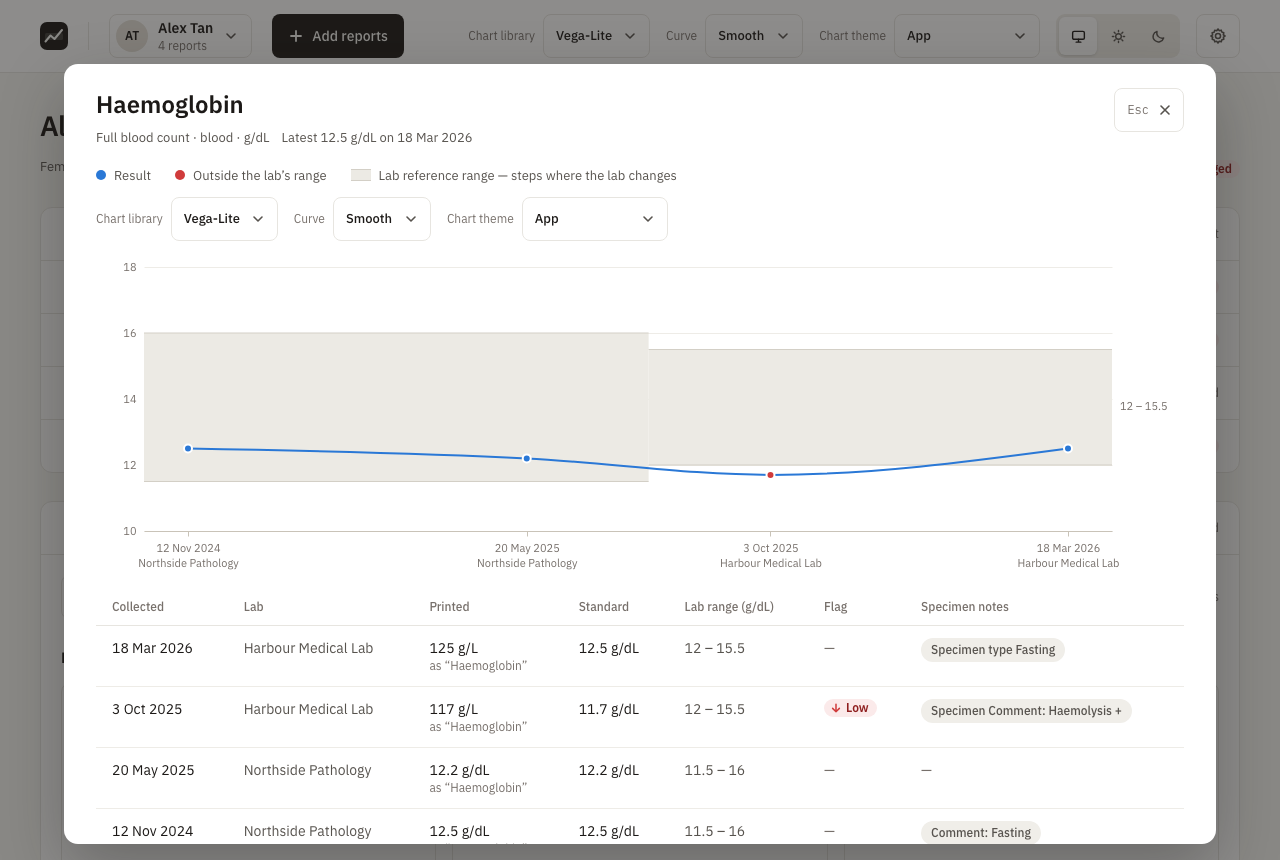
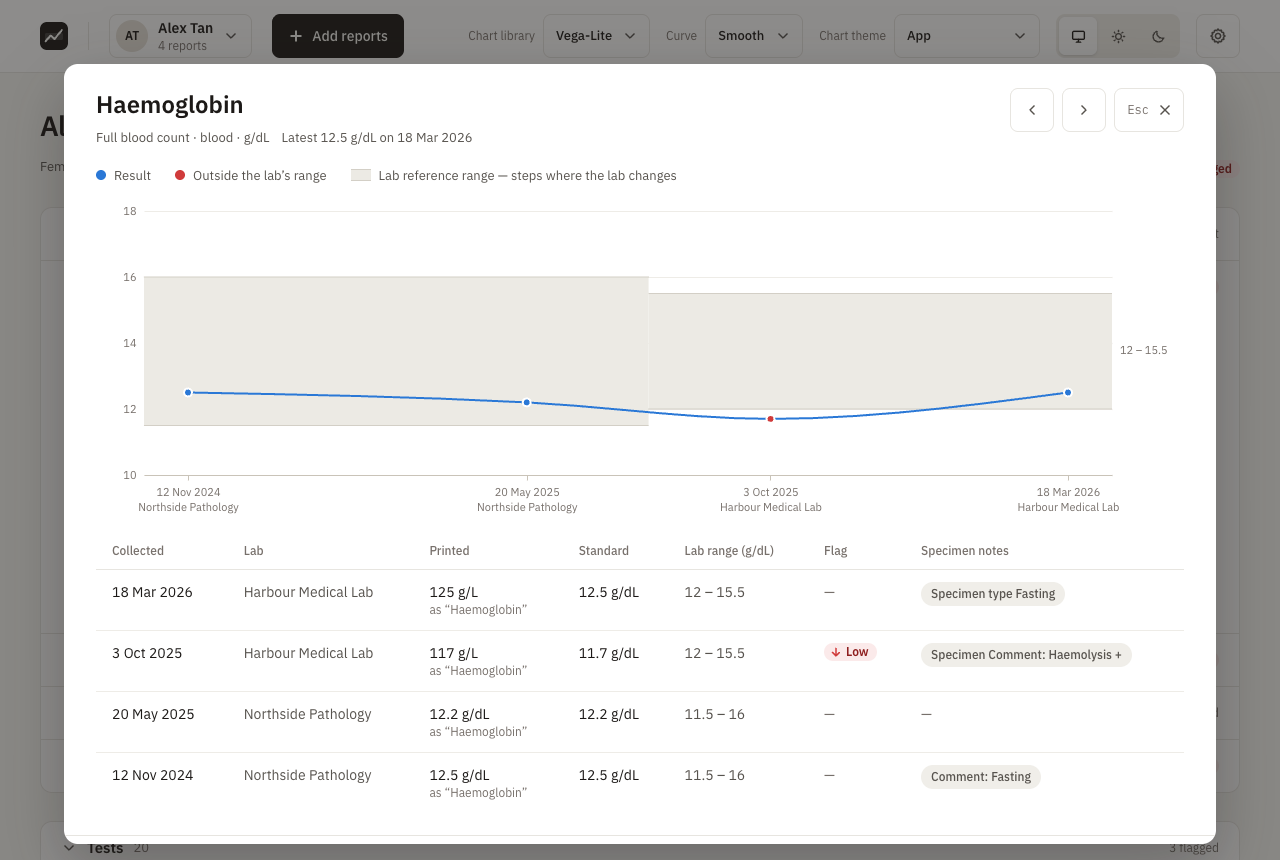
feat: add left/right controls when test dialog with large chart is opened (#1)

diff --git a/app/src/components/TestDetail.vue b/app/src/components/TestDetail.vue
@@ -1,17 +1,24 @@
 <script setup lang="ts">
-import { computed, onMounted, ref, useId } from "vue";
+import { computed, nextTick, onMounted, ref, useId, watch } from "vue";
 import { FLAGS } from "../lib/flags.ts";
 import type { Series } from "../lib/series.ts";
 import type { TestDetail } from "../lib/test-detail.ts";
-import ChartOptions from "./ChartOptions.vue";
 import FlagPill from "./FlagPill.vue";
 import Icon from "./Icon.vue";
 import TestChart from "./TestChart.vue";
 
-const props = defineProps<{ series: Series; detail: TestDetail }>();
-const emit = defineEmits<{ close: [] }>();
+const props = defineProps<{
+  series: Series;
+  detail: TestDetail;
+  /** Where this test sits among the tests shown; null when it isn't among them. */
+  position: { index: number; total: number } | null;
+}>();
+const emit = defineEmits<{ close: []; step: [by: -1 | 1] }>();
 
 const dialog = ref<HTMLDialogElement | null>(null);
+const body = ref<HTMLElement | null>(null);
+const previous = ref<HTMLButtonElement | null>(null);
+const next = ref<HTMLButtonElement | null>(null);
 const titleId = useId();
 
 // Legend entries only for what this chart actually draws.
@@ -21,6 +28,30 @@ const hasFlags = computed(() => props.series.points.some((p) => p.flag));
 // A native modal dialog: the page behind becomes inert, focus stays inside,
 // Esc closes it, and focus returns to the card afterwards.
 onMounted(() => dialog.value?.showModal());
+
+// Stepping to another test starts it from the top, like opening it would.
+watch(() => props.series, () => body.value?.scrollTo({ top: 0 }));
+
+/** Left and right step to the previous or next test. */
+function stepOnArrow(event: KeyboardEvent) {
+  const by = event.key === "ArrowLeft" ? -1 : event.key === "ArrowRight" ? 1 : 0;
+  if (!by || !props.position) return;
+  if (event.altKey || event.ctrlKey || event.metaKey || event.shiftKey) return;
+  event.preventDefault();
+  emit("step", by);
+}
+
+/**
+ * Steps from a button. At the first or last test that button turns disabled and
+ * the browser drops its focus, which would leave the arrow keys with nowhere to
+ * go, so focus moves to the other button.
+ */
+async function stepFrom(by: -1 | 1) {
+  emit("step", by);
+  await nextTick();
+  const [from, to] = by < 0 ? [previous, next] : [next, previous];
+  if (from.value?.disabled) to.value?.focus();
+}
 
 /** Clicks that land on the dialog element itself, not its panel, are on the backdrop. */
 function closeOnBackdrop(event: MouseEvent) {
@@ -34,9 +65,10 @@ function closeOnBackdrop(event: MouseEvent) {
     :aria-labelledby="titleId"
     class="mx-auto mt-16 mb-auto max-h-[calc(100dvh-5rem)] w-[min(72rem,calc(100vw-2rem))] max-w-none overflow-hidden rounded-[14px] bg-surface text-ink shadow-[0_24px_64px_rgb(28_25_23/0.3)] backdrop:bg-[rgb(28_25_23/0.5)] dark:border dark:border-line-strong dark:backdrop:bg-black/70"
     @click="closeOnBackdrop"
+    @keydown="stepOnArrow"
     @close="emit('close')"
   >
-    <div class="flex max-h-[calc(100dvh-5rem)] flex-col overflow-y-auto">
+    <div ref="body" class="flex max-h-[calc(100dvh-5rem)] flex-col overflow-y-auto">
       <header class="flex items-start justify-between gap-6 px-8 pt-6 pb-4.5">
         <div class="flex min-w-0 flex-col gap-2">
           <div class="flex flex-wrap items-baseline gap-x-3 gap-y-1">
@@ -55,39 +87,61 @@ function closeOnBackdrop(event: MouseEvent) {
             </template>
           </div>
         </div>
-        <button
-          type="button"
-          autofocus
-          aria-label="Close"
-          class="flex h-11 shrink-0 items-center gap-2 rounded-lg border border-line pr-2.5 pl-3 text-ink-2 hover:text-ink"
-          @click="dialog?.close()"
-        >
-          <kbd class="font-mono text-xs text-muted">Esc</kbd>
-          <Icon name="close" />
-        </button>
+        <div class="flex shrink-0 items-center gap-2">
+          <!-- The same steps as left and right, for a mouse or a touch screen. -->
+          <template v-if="position && position.total > 1">
+            <button
+              type="button"
+              ref="previous"
+              aria-label="Previous test"
+              :disabled="position.index === 0"
+              class="flex size-11 items-center justify-center rounded-lg border border-line text-ink-2 hover:text-ink disabled:opacity-60 disabled:hover:text-ink-2"
+              @click="stepFrom(-1)"
+            >
+              <Icon name="chevron-left" />
+            </button>
+            <button
+              type="button"
+              ref="next"
+              aria-label="Next test"
+              :disabled="position.index === position.total - 1"
+              class="flex size-11 items-center justify-center rounded-lg border border-line text-ink-2 hover:text-ink disabled:opacity-60 disabled:hover:text-ink-2"
+              @click="stepFrom(1)"
+            >
+              <Icon name="chevron-right" />
+            </button>
+          </template>
+          <button
+            type="button"
+            autofocus
+            aria-label="Close"
+            class="flex h-11 items-center gap-2 rounded-lg border border-line pr-2.5 pl-3 text-ink-2 hover:text-ink"
+            @click="dialog?.close()"
+          >
+            <kbd class="font-mono text-xs text-muted">Esc</kbd>
+            <Icon name="close" />
+          </button>
+        </div>
       </header>
 
       <div class="flex flex-col gap-3.5 px-8 pb-5.5">
-        <div class="flex flex-wrap items-center justify-between gap-x-6 gap-y-3">
-          <ul class="flex flex-wrap gap-x-6 gap-y-2 text-[13px] text-ink-2" aria-label="Legend">
-            <li class="flex items-center gap-2">
-              <span class="size-2.5 rounded-full bg-series" aria-hidden="true"></span>Result
-            </li>
-            <li v-if="hasBounds" class="flex items-center gap-2">
-              <span class="size-2.5 rounded-full border-2 border-series bg-surface" aria-hidden="true"></span>Reported
-              as a bound, e.g. &lt; 5
-            </li>
-            <li v-if="hasFlags" class="flex items-center gap-2">
-              <span class="size-2.5 rounded-full bg-critical" aria-hidden="true"></span>Outside the lab’s range
-            </li>
-            <li v-if="series.bands.length" class="flex items-center gap-2">
-              <span class="h-3 w-5 border-y border-band-edge bg-band" aria-hidden="true"></span>Lab reference range
-              — steps where the lab changes
-            </li>
-            <li v-else-if="series.bandedRange">Banded range: see the table</li>
-          </ul>
-          <ChartOptions />
-        </div>
+        <ul class="flex flex-wrap gap-x-6 gap-y-2 text-[13px] text-ink-2" aria-label="Legend">
+          <li class="flex items-center gap-2">
+            <span class="size-2.5 rounded-full bg-series" aria-hidden="true"></span>Result
+          </li>
+          <li v-if="hasBounds" class="flex items-center gap-2">
+            <span class="size-2.5 rounded-full border-2 border-series bg-surface" aria-hidden="true"></span>Reported
+            as a bound, e.g. &lt; 5
+          </li>
+          <li v-if="hasFlags" class="flex items-center gap-2">
+            <span class="size-2.5 rounded-full bg-critical" aria-hidden="true"></span>Outside the lab’s range
+          </li>
+          <li v-if="series.bands.length" class="flex items-center gap-2">
+            <span class="h-3 w-5 border-y border-band-edge bg-band" aria-hidden="true"></span>Lab reference range
+            — steps where the lab changes
+          </li>
+          <li v-else-if="series.bandedRange">Banded range: see the table</li>
+        </ul>
 
         <TestChart v-if="series.domain" :series="series" :height="320" axes />
 
@@ -147,7 +201,12 @@ function closeOnBackdrop(event: MouseEvent) {
 
       <footer class="flex flex-wrap items-center justify-between gap-x-6 gap-y-2 border-t border-line px-8 py-3.5 text-xs text-muted">
         <span>{{ detail.notes.join(" · ") }}</span>
-        <span>Press Esc or click outside to close</span>
+        <span>
+          <template v-if="position && position.total > 1">
+            Test {{ position.index + 1 }} of {{ position.total }} · ← → for the previous or next ·
+          </template>
+          Press Esc or click outside to close
+        </span>
       </footer>
     </div>
   </dialog>

diff --git a/app/src/components/TestGrid.vue b/app/src/components/TestGrid.vue
@@ -82,6 +82,22 @@ const openSeries = computed(() =>
 const openDetail = computed(() =>
   openSeries.value ? testDetail(openSeries.value, props.dashboard.reports) : null
 );
+// Left and right in the zoomed view step through the tests as they're shown:
+// the current view, search and flagged-only decide which and in what order.
+const openOrder = computed(() =>
+  (view.value === "table"
+    ? table.value.groups.flatMap((g) => g.rows.map((r) => r.key))
+    : shown.value.flatMap((g) => g.cards.map((c) => c.key)))
+    .filter((key) => series.value.has(key))
+);
+const openIndex = computed(() =>
+  openKey.value ? openOrder.value.indexOf(openKey.value) : -1
+);
+/** Opens the previous or next test, stopping at either end. */
+function step(by: -1 | 1) {
+  const next = openOrder.value[openIndex.value + by];
+  if (openIndex.value >= 0 && next) openKey.value = next;
+}
 
 const totalCards = computed(() =>
   grid.value.groups.reduce((n, g) => n + g.cards.length, 0)
@@ -230,11 +246,13 @@ const summaryNote = computed(() =>
       @clear="clear"
     />
 
+    <!-- No key: the dialog stays open while stepping, and only its contents change. -->
     <TestDetail
       v-if="openSeries && openDetail"
-      :key="openKey ?? ''"
       :series="openSeries"
       :detail="openDetail"
+      :position="openIndex >= 0 ? { index: openIndex, total: openOrder.length } : null"
+      @step="step"
       @close="openKey = null"
     />
   </div>

diff --git a/app/src/components/ChartOptions.vue b/app/src/components/ChartOptions.vue
@@ -50,7 +50,7 @@ watchEffect(async () => {
   }));
 });
 
-// Ids are unique per copy: the options appear in the top bar and in the zoomed view.
+// Ids are unique per copy, should the options appear in more than one place.
 const ids = { library: useId(), curve: useId(), theme: useId() };
 
 const fields = computed(() => {

diff --git a/app/src/components/AppLogo.vue b/app/src/components/AppLogo.vue
@@ -1,4 +1,5 @@
 <script setup lang="ts">
+// desktop/icon.png, the Dock icon, is this logo drawn large: redraw it when this changes.
 withDefaults(defineProps<{ size?: number }>(), { size: 28 });
 </script>
 

diff --git a/docs/features/006-charts/spec.md b/docs/features/006-charts/spec.md
@@ -14,6 +14,8 @@ flags. The app shouldn't be locked into one charting library.
 - As a user, I can open a test in a large view, read dates, values and ranges
   without hovering (on a touch screen too), and close it with Esc or a click
   outside.
+- As a user, I can press left and right in the large view to move to the
+  previous or next test without closing it.
 - As a user, I can draw the lines straight, smooth, or as steps that hold each
   result until the next test.
 - As a developer, I can switch the chart library at runtime.
@@ -25,8 +27,7 @@ flags. The app shouldn't be locked into one charting library.
 2. Results reported as a bound are drawn as hollow markers at the bound; flagged
    results stand out, never by colour alone.
 3. The same chart in Vega-Lite, ECharts, Chart.js and Plotly, chosen from a
-   dropdown in the top bar or the large view and remembered; only the chosen
-   library is loaded.
+   dropdown in the top bar and remembered; only the chosen library is loaded.
 4. The large view adds a value axis on round numbers, dates and labs under each
    result, and the latest range labelled beside its band.
 5. Colours come from the theme, so charts follow light and dark mode.
@@ -41,6 +42,9 @@ flags. The app shouldn't be locked into one charting library.
   both ranges converted.
 - Switching library redraws every chart without reloading the page.
 - The large view is readable with no hover.
+- In the large view, left and right open the previous and next test in the order
+  shown (cards or table, after search and flagged-only), stopping at the first
+  and last.
 - Changing the curve redraws every chart in that style, in all four libraries.
 
 ## Out of scope

diff --git a/docs/development.md b/docs/development.md
@@ -17,6 +17,16 @@ fake can't quietly drift from the real thing
 ([ADR 0008](adr/0008-bindings-contract-and-fake.md)). Add `?empty` to the dev
 URL to start with no reports.
 
+### App name and icon
+
+The desktop window's name and Dock icon come from `desktop.app` in `deno.json`
+(`name`, and `icons.macos` pointing at `desktop/icon.png`). Deno 2.9 reads it
+for `deno task desktop` too, not only for packaged builds. The icon is the
+in-app logo (`app/src/components/AppLogo.vue`) in its light-mode colours: a
+1024×1024 PNG, transparent outside the rounded square, which is 824×824 in the
+middle so it sits at the same size as other Dock icons. Redraw it when the logo
+changes. Windows (`.ico`) and Linux icons aren't set up.
+
 ## Checks
 
 Before a change is done:

diff --git a/docs/features/006-charts/tasks.md b/docs/features/006-charts/tasks.md
@@ -16,4 +16,7 @@
 - [x] Spec tests for all four libraries and the axes
 - [x] Curve setting (straight, smooth, steps) passed to Flint, with fixes where
       a library draws it differently
-- [x] Chart library and curve as dropdowns in the top bar and large view
+- [x] Chart library and curve as dropdowns in the top bar (no longer in the
+      large view)
+- [x] Left and right (keys, or buttons in the header) step through the tests
+      shown while the large view is open
